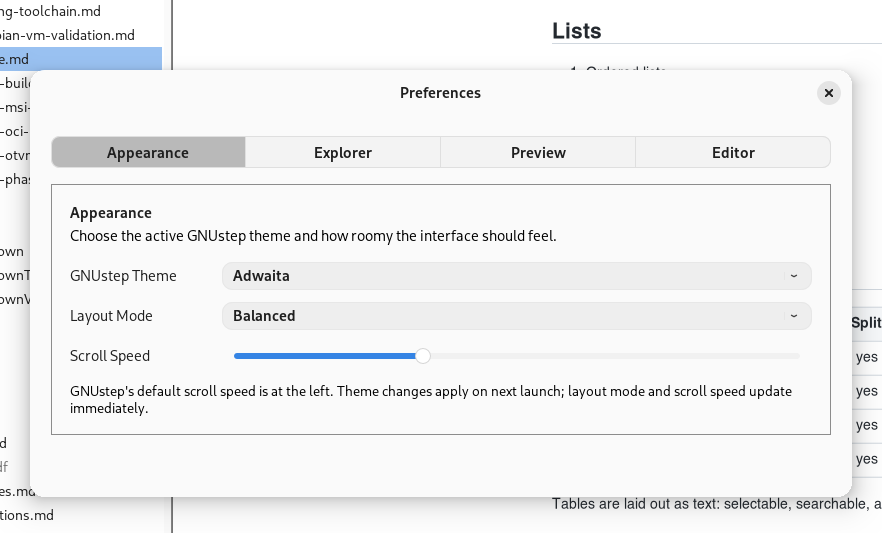
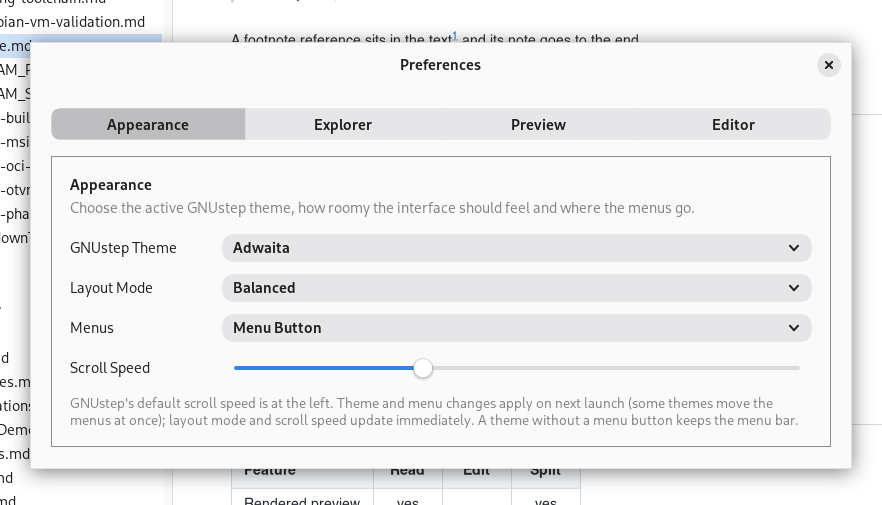
README: screenshots of 0.2.3 (rc5 AppImage, Adwaita alpha15) and the Linux share sheet
Retaken with the same framing, window size and document as before:
Adwaita read, dark read, split, edit and Preferences (now with Menus),
GNUstep read and split. New: adwaita-share.png, under the feature list.
Taken in a neutral workspace copy with a stand-in rclone remote. The two
close-ups are kept (see the PR).

Claude-Session: https://claude.ai/code/session_01GbfvoX4q9rDyzhZ7ww48LD

diff --git a/README.md b/README.md
@@ -39,9 +39,13 @@ Read for the rendered document, Edit for the Markdown source, and Split for both
 - **Import and export**: print or export to PDF, and, with `pandoc` installed, import and export `DOCX`, `RTF`, `ODT` and `HTML`
 - **Share**: one command (File > Share, or the toolbar's Share button) exports the open document, unsaved edits included, as PDF, Word, Markdown or HTML and hands it on: email with the file attached or the document as the message, the system's share menu on macOS and the share sheet on Windows 10 and 11, Open With, Show in Folder, Copy File, or a file you drag out. Copy Rendered pastes the formatted document into Teams, Outlook or Mail, and Copy for Slack into Slack. Before sending it warns about images and links only on your computer (offering a PDF or a `.zip` with the images), can share just the selection, and with [rclone](https://rclone.org) set up it puts a link to an uploaded copy on the clipboard and says who can open it
 - **Copy buttons** on code blocks and diagrams
-- **Preferences** for the theme, layout density, editor and explorer
+- **Preferences** for the theme, layout density, menus (a menu bar or a menu button), editor and explorer
 
 ![The Preferences window under Adwaita](docs/screenshots/adwaita-preferences.png)
+
+On Linux, Share opens a share sheet: pick the format, then email it, copy it, save a copy, show it in its folder, open it in another app or, with rclone, upload it and copy a link.
+
+![The Linux share sheet under Adwaita: PDF, Word, Markdown or In the Message, then Email, Copy, Save a Copy, Show in Folder, Open With and an rclone remote](docs/screenshots/adwaita-share.png)
 
 ## Rendering
 
